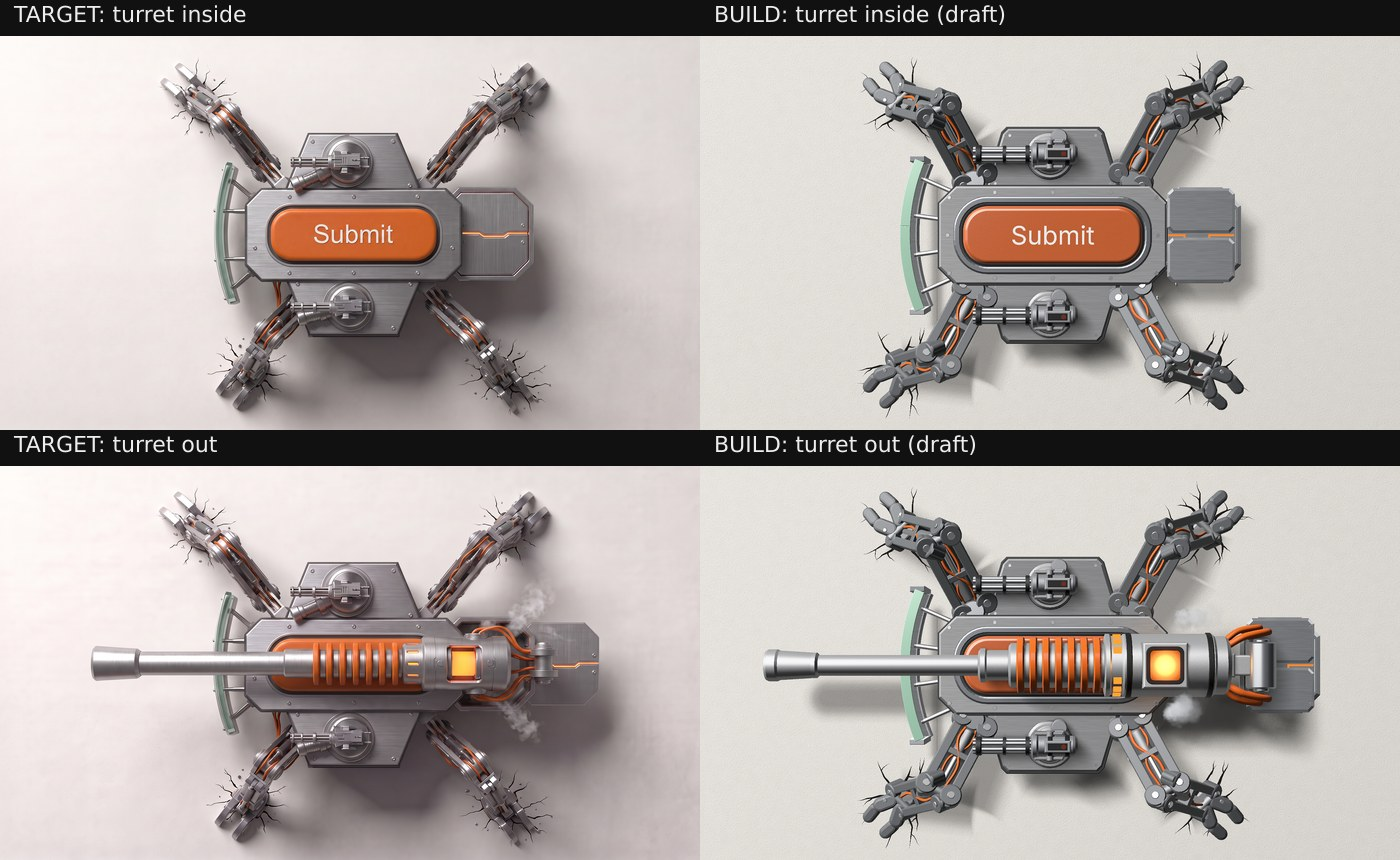
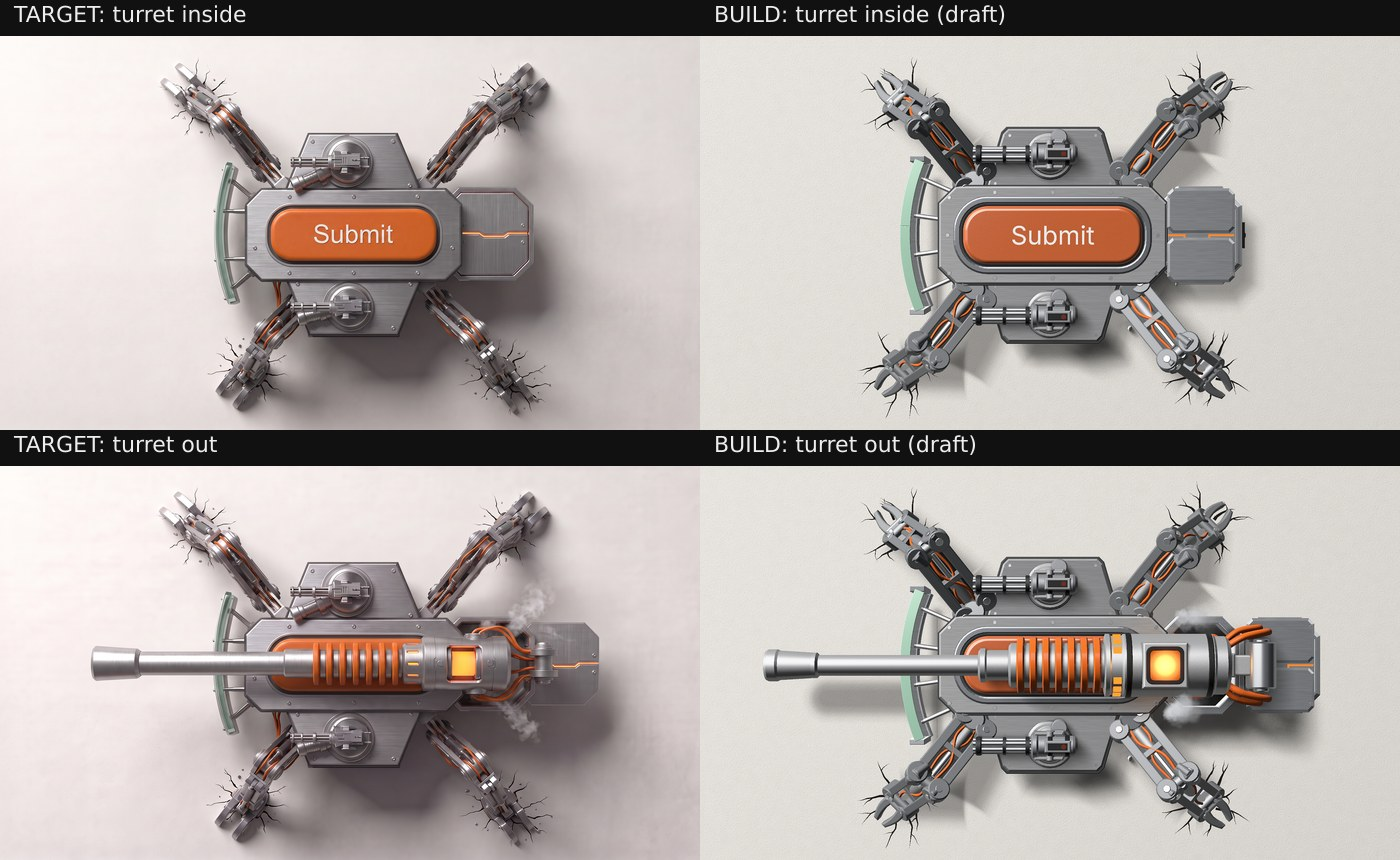
Boss look: feet are two hooked talons, legs straight from above, claws in light steel

diff --git a/src/boss/look1/model.ts b/src/boss/look1/model.ts
@@ -124,16 +124,21 @@ function legGeo(): { upper: Record<string, THREE.BufferGeometry>; lower: Record<
     ...link(B, 44, 20),
     orange: joined([hose([[12, 11, 5], [B * 0.3, 15, 13], [B * 0.6, -13, 12], [B - 18, -10, 5]], 3.8, 20, 7)])
   }
-  // A claw of two short thick hooks: each leaves the ankle high, turns inward at its knuckle and sinks its tip into the ground.
+  // A claw of two short thick talons side by side: each a curved blade that leaves the ankle high and sinks its point into the ground.
   const hook = (side: number): THREE.BufferGeometry[] => {
-    const root = cutPlate(pillOutline(74, 40, 20, 6).map(([x, y]) => [x + 30, y] as [number, number]), 34, 9).rotateY(0.16).translate(0, 0, 26)
-    const tip = cutPlate(pillOutline(60, 34, 17, 6).map(([x, y]) => [x + 24, y] as [number, number]), 30, 9).rotateY(0.26).rotateZ(-side * 0.5).translate(60, 0, 8)
-    return [root, tip].map((g) => g.rotateZ(side * 0.42).translate(0, side * 10, 0))
+    const L = 82
+    const n = 10
+    const mid = (t: number): number => side * (18 + 8 * Math.sin(Math.PI * t) - 4 * t * t)
+    const half = (t: number): number => 13.5 - 6 * Math.pow(t, 1.6)
+    const pts: [number, number][] = []
+    for (let i = 0; i <= n; i++) { const t = i / n; pts.push([t * L, mid(t) + half(t)]) }
+    for (let i = n; i >= 0; i--) { const t = i / n; pts.push([t * L, mid(t) - half(t)]) }
+    return [cutPlate(pts, 36, 5).rotateY(0.24).translate(-4, 0, 22)]
   }
   const foot = {
     plate: joined([...hook(1), ...hook(-1)]),
-    joint: joined([boxAt(-34, -32, 6, 22, 32, 52, 7), across(14, 38, 2, 14).translate(0, 0, 46)]),
-    pin: joined([discAt(6, 26, 30, 54, 58, 1.2, 10), discAt(6, 26, -30, 54, 58, 1.2, 10)]),
+    joint: joined([boxAt(-34, -34, 6, 26, 34, 54, 7), across(14, 40, 2, 14).translate(0, 0, 48)]),
+    pin: joined([discAt(6, 12, 20, 56, 60, 1.2, 10), discAt(6, 12, -20, 56, 60, 1.2, 10)]),
     dark: boxAt(-38, -24, 2, -30, 24, 30, 1)
   }
   return { upper, lower, foot }
@@ -302,7 +307,7 @@ export function buildModel(): Model {
   const legs: LegParts[] = HIPS.map(() => {
     const part = (name: string): THREE.Group => {
       const g = new THREE.Group()
-      g.add(mesh(shared.get(`leg.${name}.plate`)!, kit.plateLight), mesh(shared.get(`leg.${name}.joint`)!, kit.limb), mesh(shared.get(`leg.${name}.pin`)!, kit.pin))
+      g.add(mesh(shared.get(`leg.${name}.plate`)!, name === 'foot' ? kit.steel : kit.plateLight), mesh(shared.get(`leg.${name}.joint`)!, kit.limb), mesh(shared.get(`leg.${name}.pin`)!, kit.pin))
       const o = shared.get(`leg.${name}.orange`)
       if (o) g.add(mesh(o, kit.orange))
       const d = shared.get(`leg.${name}.dark`)

diff --git a/src/boss/look1/numbers.ts b/src/boss/look1/numbers.ts
@@ -10,6 +10,6 @@ export const HATCH = { cx: -385, hx: 108, hy: 128, c: 50, top: 166, slide: 205 }
 export const SHIELD = { mid: 388, half: 194, r: 514, thick: 25, z0: 92, z1: 222 }
 export const HIPS: [number, number][] = [[205, 152], [205, -152], [-205, 152], [-205, -152]]
 export const FEET: [number, number][] = [[412, 366], [412, -366], [-416, 370], [-416, -370]]
-export const LEG = { a: 200, b: 210, hipZ: 138, ankle: 34, lean: -0.42 }
+export const LEG = { a: 200, b: 210, hipZ: 138, ankle: 34, lean: -0.14 }
 export const CANNON = { pivotX: -521, bayX: -385, z: 268, breech: [89, 391] as const, ribs: [391, 631] as const, sleeve: [631, 707] as const, barrel: [707, 1111] as const, brake: [1111, 1237] as const, r: { breech: 79, ribs: 71, core: 56, sleeve: 38, barrel: 26, brake: 40 } }
 
